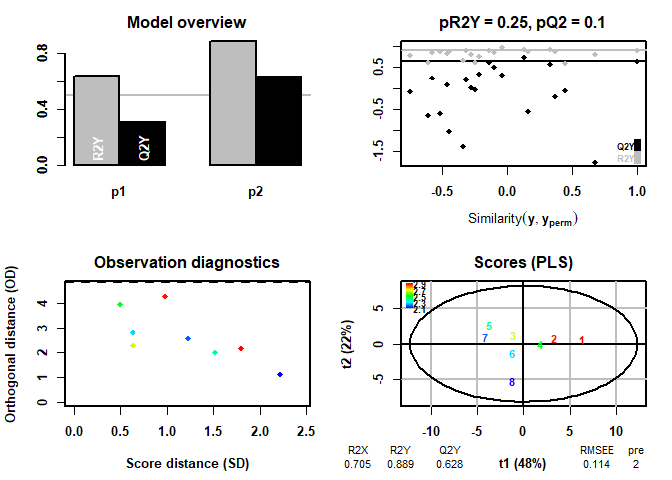
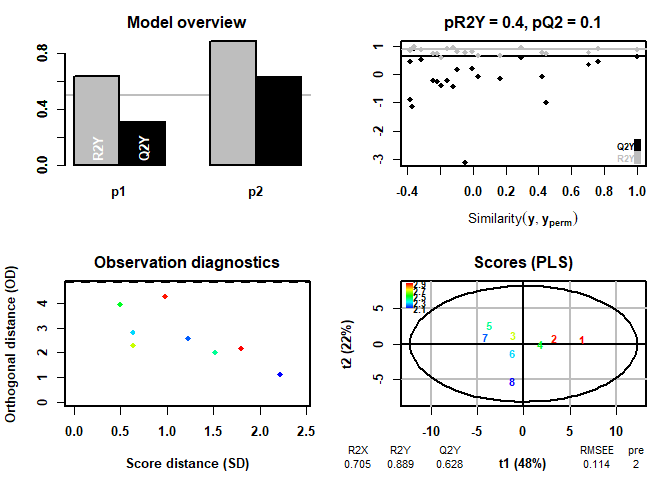
even less verbose scatter_reg on readme

diff --git a/README.md b/README.md
@@ -122,7 +122,7 @@ PLSR = ropls::opls(cytokines,
 #> 8 samples x 31 variables and 1 response
 #> standard scaling of predictors and response(s)
 #>       R2X(cum) R2Y(cum) Q2(cum) RMSEE pre ort pR2Y pQ2
-#> Total    0.705    0.889   0.628 0.114   2   0 0.25 0.1
+#> Total    0.705    0.889   0.628 0.114   2   0  0.4 0.1
 ```
 
 ![](tools/README-Run%20PLSR-1.png)
@@ -212,7 +212,7 @@ PLSR_LOOCV = opls_LOOCV(cytokines,
 #> 8 samples x 31 variables and 1 response
 #> standard scaling of predictors and response(s)
 #>       R2X(cum) R2Y(cum) Q2(cum) RMSEE pre ort pR2Y pQ2
-#> Total    0.705    0.889   0.628 0.114   2   0  0.2 0.1
+#> Total    0.705    0.889   0.628 0.114   2   0 0.15 0.1
 ```
 
 ![](tools/README-PLSR%20with%20LOOCV-1.png)
@@ -317,7 +317,6 @@ scatter_reg(x=LinearRange$Mass,y=LinearRange$pJnk,
             xlab="Protein Mass [ug]",ylab="pJnk [a.u.]",
             showRSQ=FALSE,showP=FALSE,
             method="loess")
-#> `geom_smooth()` using formula 'y ~ x'
 ```
 
 ![](tools/README-Scatter%20Graph-1.png)
@@ -333,15 +332,6 @@ loadings = LinearRange$Mass
 analytes = LinearRange[,2:10]
 
 panel = LinearRangePanel(analytes = analytes,loadings = loadings,xlab = "Protein Mass [ug]")
-#> `geom_smooth()` using formula 'y ~ x'
-#> `geom_smooth()` using formula 'y ~ x'
-#> `geom_smooth()` using formula 'y ~ x'
-#> `geom_smooth()` using formula 'y ~ x'
-#> `geom_smooth()` using formula 'y ~ x'
-#> `geom_smooth()` using formula 'y ~ x'
-#> `geom_smooth()` using formula 'y ~ x'
-#> `geom_smooth()` using formula 'y ~ x'
-#> `geom_smooth()` using formula 'y ~ x'
 ```
 
 ![](tools/README-Linear%20Range%20Panel-1.png)
@@ -354,15 +344,6 @@ loadings = LinearRange$Mass
 analytes = LinearRange[,2:10]
 
 panel = LinearRangePanel(analytes = analytes,loadings = loadings,xlab = "Protein Mass [ug]",xintercept = 1)
-#> `geom_smooth()` using formula 'y ~ x'
-#> `geom_smooth()` using formula 'y ~ x'
-#> `geom_smooth()` using formula 'y ~ x'
-#> `geom_smooth()` using formula 'y ~ x'
-#> `geom_smooth()` using formula 'y ~ x'
-#> `geom_smooth()` using formula 'y ~ x'
-#> `geom_smooth()` using formula 'y ~ x'
-#> `geom_smooth()` using formula 'y ~ x'
-#> `geom_smooth()` using formula 'y ~ x'
 ```
 
 ![](tools/README-Linear%20Range%20Panel%20vline-1.png)
